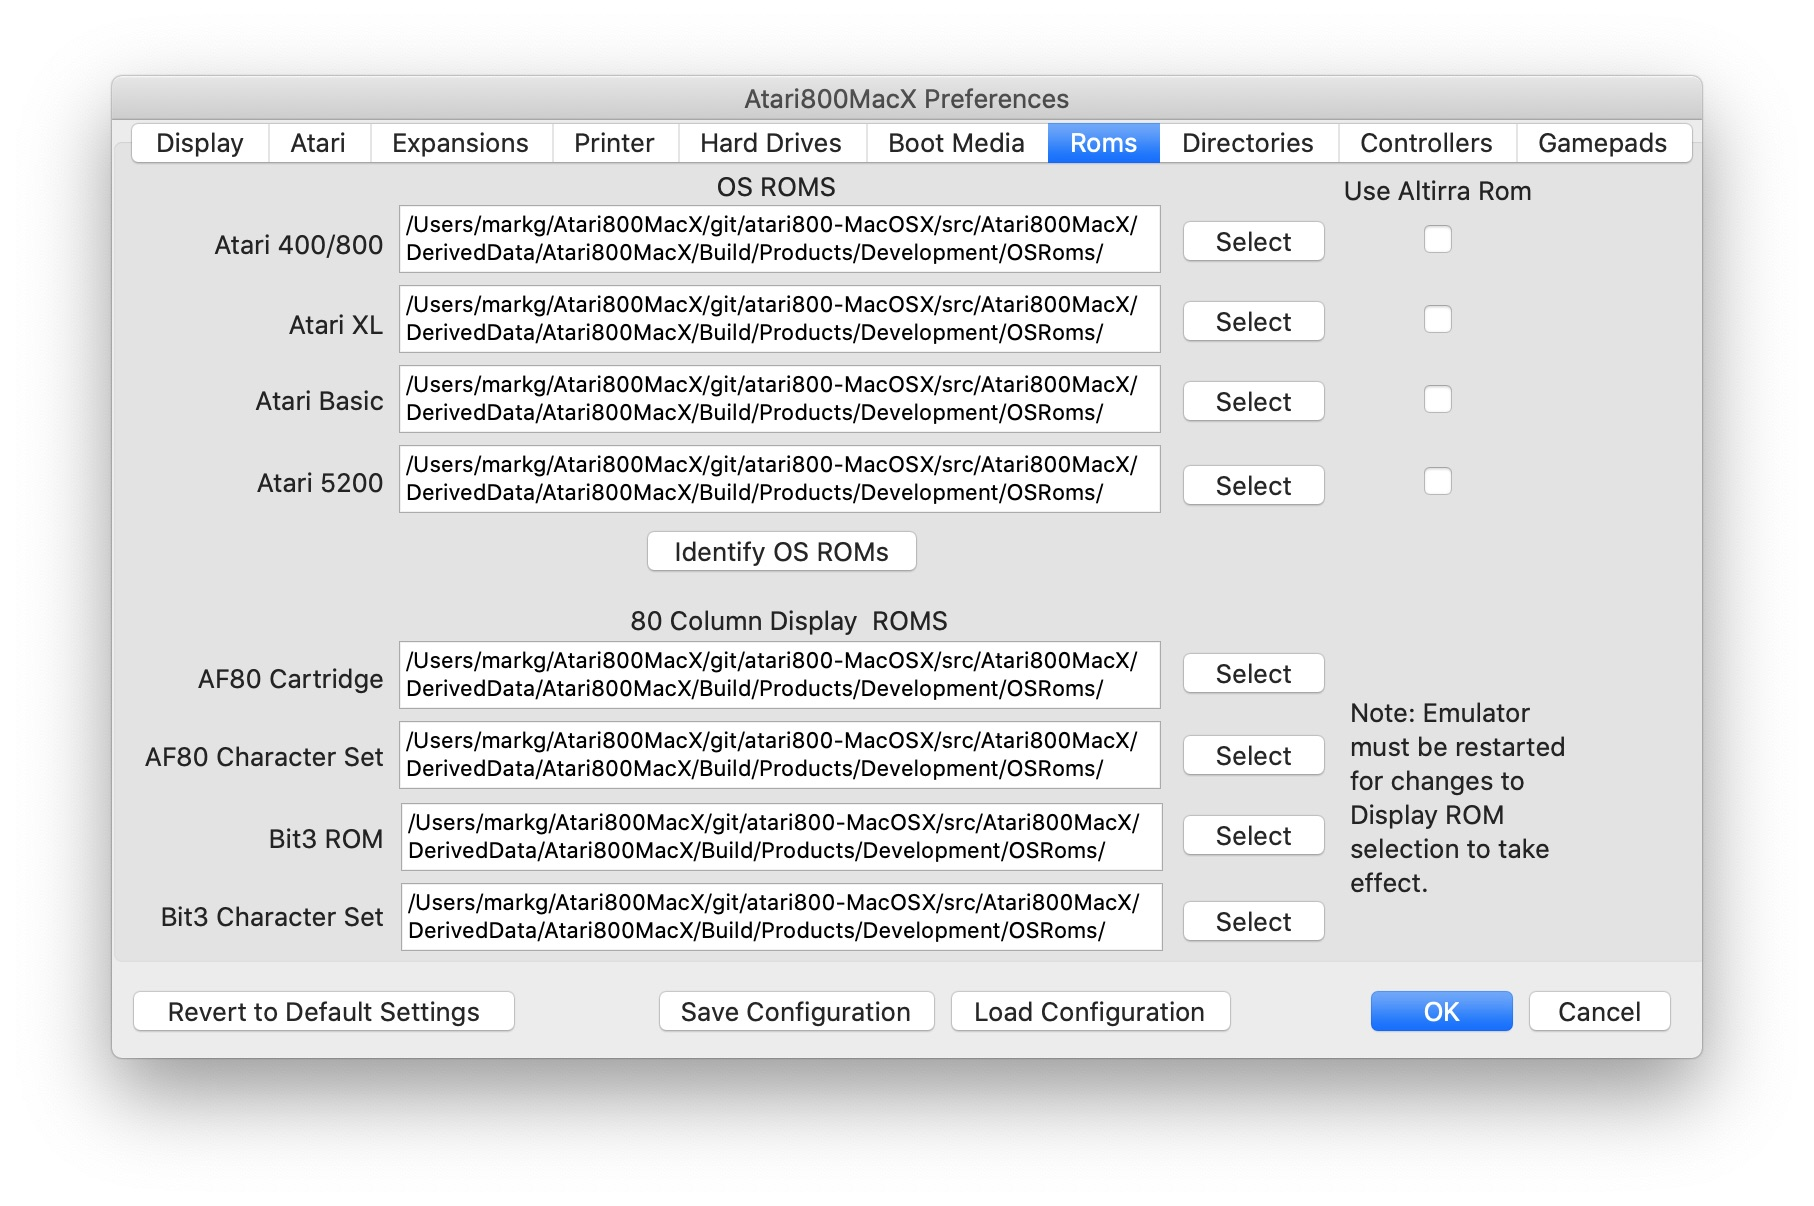
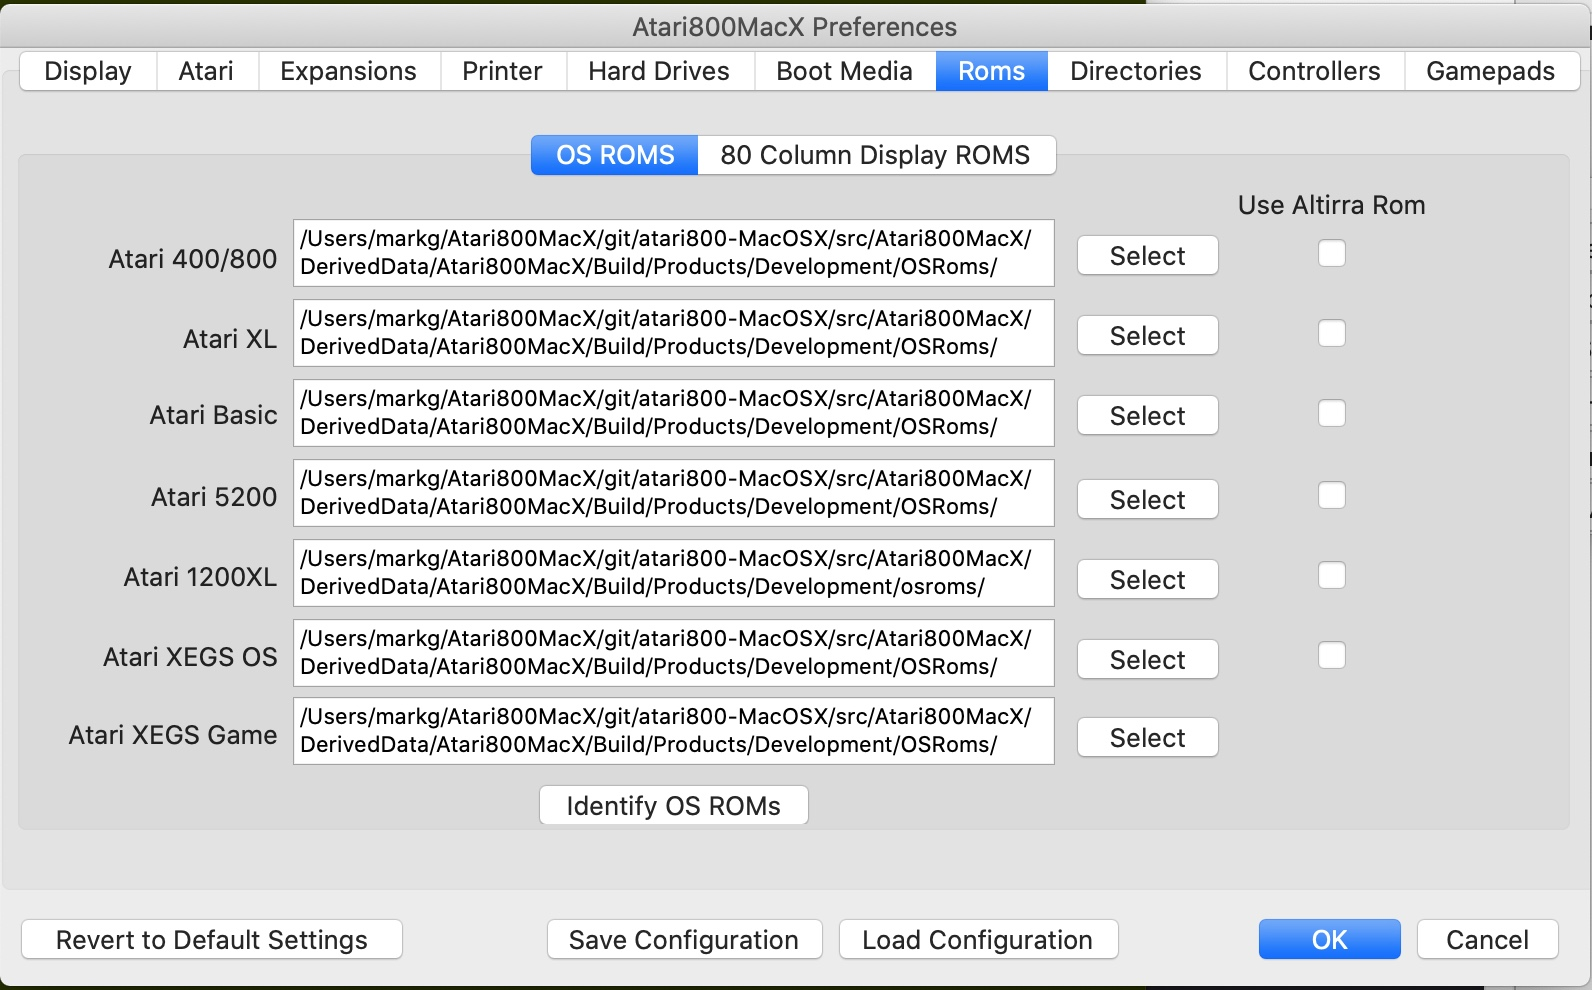
Updated ROMs Tab Help

diff --git a/atari800-MacOSX/src/Atari800MacX/Atari800MacX Help/RomsTab.html b/atari800-MacOSX/src/Atari800MacX/Atari800MacX Help/RomsTab.html
@@ -34,14 +34,19 @@ By default, files in the OSRoms folder in the
 Atari800MacX
 folder are chosen, with standard names of atariosb.rom,
 atarixl.rom,
-ataribas.rom, and a5200.rom.<br>
+ataribas.rom, and a5200.rom.<br><br>
 Note staring in version 5.3, there are no longer two
 types of ROM selections for Atari 400/800 machines,
 and there is one slot for the selection of ROMs.
 If the user would still like to use a OS/A ROM, they can still do so
 by selecting it as the 400/800 ROM.  Remember, using confiugrations
 you could still create multipe machines with different ROMs.
-<br>
+<br><br>
+Starting in version 5.4, ROM types have been added
+for 1200XL and XEGS.  THerer are two seperate slots
+for XEGS, one for the OS, and one for the built-in
+game.  If no Game rom is specified, it will default
+to the Builtin BASIC.
 <br>
 Also, if no ROMS are present, starting in version 5.3, the emulator
 will use built in Open Source ROMS from the Altirra emulator (<a href="http://www.virtualdub.org/altirra.html">http://www.virtualdub.org/altirra.html</a>).  If you would like to use one of these
@@ -72,7 +77,11 @@ Q: Where to get ROM files for the 80 column cards?
 <br>
 <br>
 (Details about the operation of the 80 column cards may be found in the Display Menu help page.)
+<br>
 <img src="RomsTab.jpg" title="" alt=""
+ style="width: 755px; height: 511px;"><br>
+<br>
+<img src="RomsTab2.jpg" title="" alt=""
  style="width: 755px; height: 511px;"><br>
 <br>
 </body>
